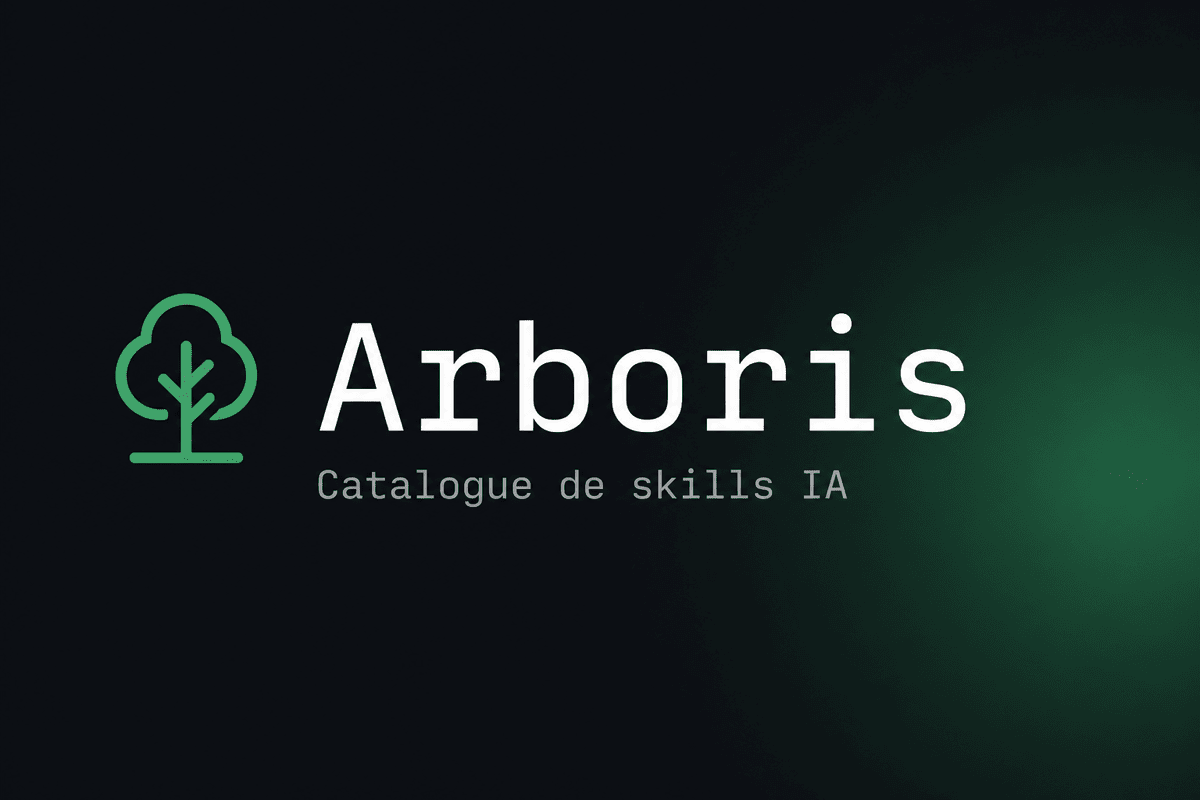
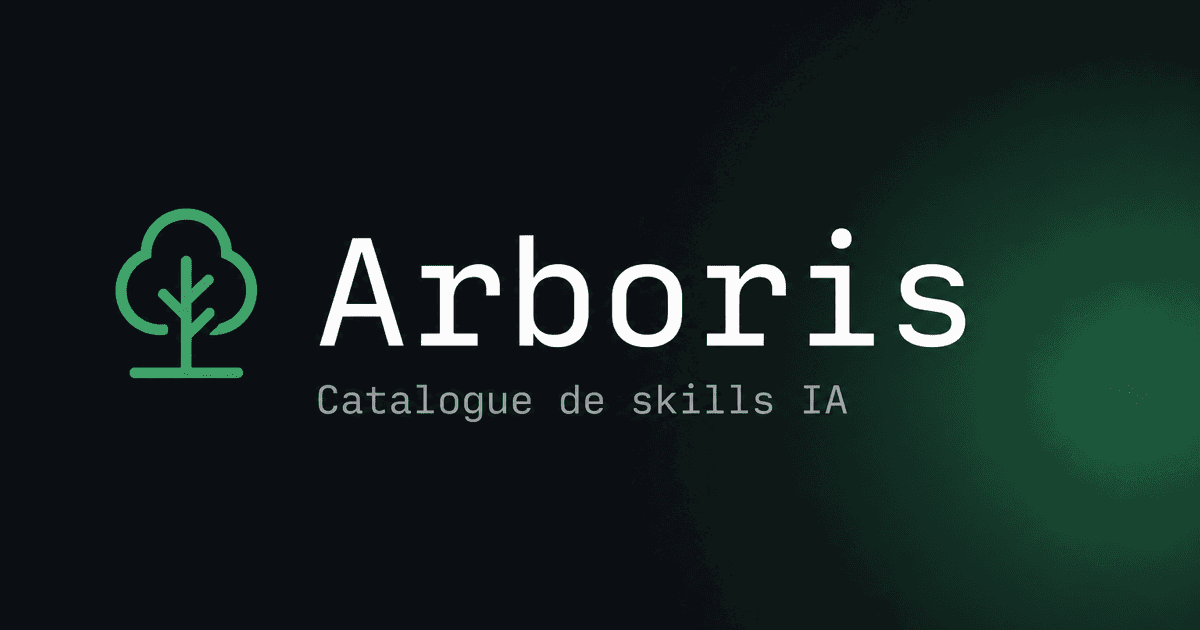
fix(a11y): contrastes, assets, cache HTML et en-têtes
Corrige F09/F13/F15/F20/F21/F25/F26 : tokens de contraste, logos éditeurs
WebP/SVG, logo JSON-LD raster, manifest + apple-touch, OG 1200×630,
Cache-Control HTML anonyme, CSP sans domaine mort, HSTS includeSubDomains,
charset unique, footer contact + CTA CLI (pas de GitHub, dépôt privé).

diff --git a/src/routes/skills.$id.tsx b/src/routes/skills.$id.tsx
@@ -145,7 +145,7 @@ function SkillDetailPage() {
             />
             {skill.score != null ? (
               <span className="inline-flex items-center gap-1 rounded-full border border-[var(--border)] bg-[var(--surface-2)] px-2.5 py-1 font-mono text-[12px] font-semibold tabular-nums text-[var(--text-1)]">
-                <Icon name="shield-check" bold size={12} className="text-[var(--accent)]" />
+                <Icon name="shield-check" bold size={12} className="text-[var(--accent-text)]" />
                 {skill.score}/100
               </span>
             ) : null}
@@ -203,7 +203,7 @@ function SkillDetailPage() {
       <div className="mt-[30px] overflow-hidden rounded-2xl border border-[var(--border)] bg-[var(--surface)] shadow-[var(--shadow-card)]">
         <div className="flex items-center justify-between gap-3.5 border-b border-[var(--border)] bg-[var(--surface-2)] px-[18px] py-[13px]">
           <div className="flex items-center gap-2.5 font-mono text-[11.5px] font-semibold uppercase tracking-[0.08em] text-[var(--text-3)]">
-            <Icon name="cursor-text" bold size={14} className="text-[var(--accent)]" />
+            <Icon name="cursor-text" bold size={14} className="text-[var(--accent-text)]" />
             {t.skill.promptTitle}
           </div>
           <Button variant="copy" size="sm" copied={copied} onClick={handleCopy}>
@@ -232,7 +232,7 @@ function SkillDetailPage() {
             <div className="flex flex-col gap-[11px]">
               {skill.does[lang].map((text) => (
                 <div key={text} className="flex items-start gap-[11px]">
-                  <Icon name="check-circle" bold size={18} className="mt-px flex-none text-[var(--accent)]" />
+                  <Icon name="check-circle" bold size={18} className="mt-px flex-none text-[var(--accent-text)]" />
                   <LangText text={text} as="span" className="text-[14.5px] text-[var(--text-1)]" />
                 </div>
               ))}
@@ -246,7 +246,7 @@ function SkillDetailPage() {
             <div className="flex flex-col gap-3.5">
               {t.skill.how.map((h, i) => (
                 <div key={h.t} className="flex items-start gap-3.5">
-                  <span className="grid h-7 w-7 flex-none place-items-center rounded-full bg-[var(--accent-soft)] font-mono text-[13px] font-semibold text-[var(--accent)]">
+                  <span className="grid h-7 w-7 flex-none place-items-center rounded-full bg-[var(--accent-soft)] font-mono text-[13px] font-semibold text-[var(--accent-text)]">
                     {i + 1}
                   </span>
                   <div className="pt-0.5">
@@ -283,7 +283,7 @@ function SkillDetailPage() {
               <div className="text-[11px] font-semibold uppercase tracking-[0.06em] text-[var(--text-3)]">
                 {t.skill.securityTitle}
               </div>
-              <Icon name="shield-check" bold size={14} className="text-[var(--accent)]" />
+              <Icon name="shield-check" bold size={14} className="text-[var(--accent-text)]" />
             </div>
             {skill.score == null || !skill.securityReport ? (
               <div className="rounded-xl border border-dashed border-[var(--border-2)] bg-[var(--surface-2)] px-3.5 py-4 text-center">

diff --git a/src/routes/commands.$id.tsx b/src/routes/commands.$id.tsx
@@ -68,12 +68,12 @@ function CommandDetailPage() {
 
       <div className="flex flex-col gap-5 lg:flex-row lg:items-start lg:justify-between">
         <div className="flex min-w-0 flex-1 flex-wrap items-start gap-[22px]">
-          <div className="grid h-16 w-16 flex-none place-items-center rounded-2xl bg-[var(--accent-soft)] text-[var(--accent)]">
+          <div className="grid h-16 w-16 flex-none place-items-center rounded-2xl bg-[var(--accent-soft)] text-[var(--accent-text)]">
             <Icon name="terminal-window" bold size={32} />
           </div>
           <div className="min-w-[240px] flex-1">
             <div className="mb-2.5 flex flex-wrap items-center gap-2.5">
-              <span className="inline-flex items-center gap-1.5 rounded-full border border-[var(--accent-border)] bg-[var(--accent-soft)] px-[11px] py-1 text-[12px] font-semibold text-[var(--accent)]">
+              <span className="inline-flex items-center gap-1.5 rounded-full border border-[var(--accent-border)] bg-[var(--accent-soft)] px-[11px] py-1 text-[12px] font-semibold text-[var(--accent-text)]">
                 <Icon name="terminal" bold size={13} />
                 {t.commands.slash}
               </span>
@@ -100,7 +100,7 @@ function CommandDetailPage() {
                         params={{ id }}
                         className="inline-flex cursor-pointer items-center gap-1.5 rounded-md border border-[var(--border)] bg-[var(--surface)] px-2.5 py-1 font-mono text-[12.5px] text-[var(--text-1)] hover:border-[var(--border-2)] hover:bg-[var(--surface-hover)]"
                       >
-                        <Icon name="sparkle" size={12} className="text-[var(--accent)]" />
+                        <Icon name="sparkle" size={12} className="text-[var(--accent-text)]" />
                         {id}
                       </Link>
                     </li>
@@ -145,7 +145,7 @@ function CommandDetailPage() {
       <div className="mt-[30px] overflow-hidden rounded-2xl border border-[var(--border)] bg-[var(--surface)] shadow-[var(--shadow-card)]">
         <div className="flex items-center justify-between gap-3.5 border-b border-[var(--border)] bg-[var(--surface-2)] px-[18px] py-[13px]">
           <h2 className="m-0 flex items-center gap-2.5 font-mono text-[11.5px] font-semibold uppercase tracking-[0.08em] text-[var(--text-3)]">
-            <Icon name="cursor-text" bold size={14} className="text-[var(--accent)]" />
+            <Icon name="cursor-text" bold size={14} className="text-[var(--accent-text)]" />
             {t.commands.promptHeading(command.id)}
           </h2>
           <Button variant="copy" size="sm" copied={copied} onClick={handleCopy}>

diff --git a/src/lib/branding.test.ts b/src/lib/branding.test.ts
@@ -23,7 +23,7 @@ describe('publisher logos', () => {
     expect(hasPublisherLogo('Ollama')).toBe(true)
     expect(publisherLogoAsset('Ollama')).toBeUndefined()
     expect(hasPublisherLogo('Nous Research')).toBe(true)
-    expect(publisherLogoAsset('Nous Research')).toBe('/publishers/nous-research.png')
+    expect(publisherLogoAsset('Nous Research')).toBe('/publishers/nous-research.webp')
     expect(hasPublisherLogo('vinta')).toBe(true)
     expect(hasPublisherLogo('Context7')).toBe(true)
     expect(publisherLogoAsset('Context7')).toBe('/publishers/context7.svg')
@@ -32,10 +32,10 @@ describe('publisher logos', () => {
     expect(hasPublisherLogo('Arboris')).toBe(true)
     expect(publisherLogoAsset('Arboris')).toBe('/publishers/arboris.svg')
     expect(hasPublisherLogo('affaan-m')).toBe(true)
-    expect(publisherLogoAsset('affaan-m')).toBe('/publishers/affaan-m.png')
+    expect(publisherLogoAsset('affaan-m')).toBe('/publishers/affaan-m.webp')
     expect(hasPublisherLogo('Yunt')).toBe(true)
-    expect(publisherLogoAsset('Yunt')).toBe('/publishers/yunt.png')
-    expect(publisherLogoAsset('yunt')).toBe('/publishers/yunt.png')
+    expect(publisherLogoAsset('Yunt')).toBe('/publishers/yunt.svg')
+    expect(publisherLogoAsset('yunt')).toBe('/publishers/yunt.svg')
     expect(hasPublisherLogo('FastAPI')).toBe(true)
     // Logos monochromes rendus en path inline coloré (plus d'asset <img> noir).
     expect(publisherLogoAsset('FastAPI')).toBeUndefined()
@@ -50,7 +50,7 @@ describe('publisher logos', () => {
     expect(hasPublisherLogo('Alibaba')).toBe(true)
     expect(hasPublisherLogo('PyTorch')).toBe(true)
     expect(hasPublisherLogo('NextLevelBuilder')).toBe(true)
-    expect(publisherLogoAsset('NextLevelBuilder')).toBe('/publishers/nextlevelbuilder.png')
+    expect(publisherLogoAsset('NextLevelBuilder')).toBe('/publishers/nextlevelbuilder.webp')
     expect(hasPublisherLogo('nextlevelbuilder')).toBe(true)
     expect(hasPublisherLogo('Inconnu')).toBe(false)
   })

diff --git a/src/routes/commands.index.tsx b/src/routes/commands.index.tsx
@@ -44,7 +44,7 @@ function CommandsPage() {
     <main id="main-content" className="w-full">
       <PageShell as="div" className="pt-9 pb-[70px]">
         <div className="mb-8 max-w-[640px]">
-          <div className="mb-3 flex items-center gap-2.5 font-mono text-[11.5px] font-medium tracking-[0.02em] text-[var(--accent)]">
+          <div className="mb-3 flex items-center gap-2.5 font-mono text-[11.5px] font-medium tracking-[0.02em] text-[var(--accent-text)]">
             <Icon name="terminal-window" bold />
             <span>{t.commands.kicker}</span>
             <span className="text-[var(--text-3)]">·</span>
@@ -55,7 +55,7 @@ function CommandsPage() {
           </h1>
           <p className="max-w-[540px] text-[15px] text-[var(--text-2)]">{t.commands.subtitle}</p>
           <p className="mt-3 rounded-[10px] border border-[var(--border)] bg-[var(--surface-2)] px-3.5 py-2.5 text-[13px] text-[var(--text-2)]">
-            <Icon name="info" size={14} className="mr-1.5 inline text-[var(--accent)]" />
+            <Icon name="info" size={14} className="mr-1.5 inline text-[var(--accent-text)]" />
             {t.commands.usageBanner}
           </p>
         </div>
@@ -106,7 +106,7 @@ function CommandRow({ command }: { command: CommandSummary }) {
       className="flex cursor-pointer flex-col gap-2 border-b border-[var(--border)] px-4 py-4 transition-colors last:border-b-0 hover:bg-[var(--surface-hover)] sm:flex-row sm:items-center sm:gap-6 sm:px-[18px]"
     >
       <div className="flex min-w-0 flex-1 items-start gap-3">
-        <span className="grid h-[34px] w-[34px] flex-none place-items-center rounded-[9px] bg-[var(--accent-soft)] text-[var(--accent)]">
+        <span className="grid h-[34px] w-[34px] flex-none place-items-center rounded-[9px] bg-[var(--accent-soft)] text-[var(--accent-text)]">
           <Icon name="terminal-window" bold size={17} />
         </span>
         <span className="min-w-0">

diff --git a/src/routes/__root.tsx b/src/routes/__root.tsx
@@ -13,9 +13,6 @@ import { beforeSendMeasurement } from '#/lib/analytics-optout'
 import { rootFallbackMeta, notFoundSeo } from '#/lib/seo'
 import appCss from '#/styles.css?url'
 
-/** Theme anti-FOUC — inline (CSP `unsafe-inline`) pour éviter une requête render-blocking. */
-const THEME_INIT = `(function(){try{var t=localStorage.getItem('sp-theme');if(t!=='light'&&t!=='dark')t='dark';document.documentElement.setAttribute('data-theme',t);document.documentElement.style.colorScheme=t}catch(e){document.documentElement.setAttribute('data-theme','dark')}})();`
-
 const Analytics = lazy(() =>
   import('@vercel/analytics/react').then((m) => ({ default: m.Analytics })),
 )
@@ -31,6 +28,7 @@ export const Route = createRootRoute({
       meta: [
         { charSet: 'utf-8' },
         { name: 'viewport', content: 'width=device-width, initial-scale=1' },
+        { name: 'theme-color', content: '#197544' },
         ...seo.meta,
       ],
       links: [
@@ -38,6 +36,8 @@ export const Route = createRootRoute({
         { rel: 'stylesheet', href: appCss },
         { rel: 'icon', href: '/favicon.svg', type: 'image/svg+xml' },
         { rel: 'icon', href: '/favicon.ico', sizes: '48x48', type: 'image/x-icon' },
+        { rel: 'apple-touch-icon', href: '/apple-touch-icon.png', sizes: '180x180' },
+        { rel: 'manifest', href: '/manifest.webmanifest' },
         { rel: 'preload', href: '/phosphor-sprite.svg', as: 'fetch', crossOrigin: 'anonymous' },
         ...(seo.links ?? []),
       ],
@@ -52,8 +52,7 @@ function RootDocument({ children }: { children: ReactNode }) {
   return (
     <html lang="fr" data-theme="dark" suppressHydrationWarning>
       <head>
-        <meta charSet="utf-8" />
-        <script dangerouslySetInnerHTML={{ __html: THEME_INIT }} />
+        <script src="/arboris-theme-init.js" />
         <HeadContent />
       </head>
       <body>

diff --git a/src/lib/vercel-headers.test.ts b/src/lib/vercel-headers.test.ts
@@ -1,0 +1,40 @@
+import { readFileSync } from 'node:fs'
+import { dirname, join } from 'node:path'
+import { fileURLToPath } from 'node:url'
+import { describe, expect, it } from 'vitest'
+
+const vercel = JSON.parse(
+  readFileSync(join(dirname(fileURLToPath(import.meta.url)), '../../vercel.json'), 'utf-8'),
+) as {
+  headers: Array<{ source: string; headers: Array<{ key: string; value: string }> }>
+}
+
+function header(source: string, key: string): string | undefined {
+  const block = vercel.headers.find((entry) => entry.source === source)
+  return block?.headers.find((h) => h.key === key)?.value
+}
+
+describe('en-têtes Vercel (cache, CSP, HSTS)', () => {
+  it('cache le HTML anonyme des listes et fiches', () => {
+    const htmlCache = 'public, max-age=0, s-maxage=300, stale-while-revalidate=86400'
+    expect(header('/', 'Cache-Control')).toBe(htmlCache)
+    expect(header('/skills(.*)', 'Cache-Control')).toBe(htmlCache)
+    expect(header('/commands(.*)', 'Cache-Control')).toBe(htmlCache)
+    expect(header('/collections(.*)', 'Cache-Control')).toBe(htmlCache)
+    expect(header('/getting-started', 'Cache-Control')).toBe(htmlCache)
+  })
+
+  it('cache plus longtemps les pages légales', () => {
+    const legal = 'public, max-age=0, s-maxage=86400, stale-while-revalidate=86400'
+    expect(header('/mentions-legales', 'Cache-Control')).toBe(legal)
+    expect(header('/confidentialite', 'Cache-Control')).toBe(legal)
+  })
+
+  it('retire le domaine Analytics inutilisé et pose includeSubDomains', () => {
+    const csp = header('/(.*)', 'Content-Security-Policy')
+    expect(csp).toBeTruthy()
+    expect(csp).not.toContain('va.vercel-scripts.com')
+    expect(csp).toContain("script-src 'self' 'unsafe-inline'")
+    expect(header('/(.*)', 'Strict-Transport-Security')).toBe('max-age=63072000; includeSubDomains')
+  })
+})

diff --git a/src/routes/collections.$id.tsx b/src/routes/collections.$id.tsx
@@ -109,7 +109,7 @@ function CollectionDetailPage() {
                       params={{ id: cmd.id }}
                       className="flex cursor-pointer items-center gap-3 border-b border-[var(--border)] px-4 py-3 last:border-b-0 hover:bg-[var(--surface-hover)]"
                     >
-                      <Icon name="terminal-window" size={16} className="text-[var(--accent)]" />
+                      <Icon name="terminal-window" size={16} className="text-[var(--accent-text)]" />
                       <span className="min-w-0 flex-1">
                         <span className="block font-mono text-[13px] font-semibold">/{cmd.id}</span>
                         <span className="block truncate text-[12.5px] text-[var(--text-2)]">
@@ -135,7 +135,7 @@ function CollectionDetailPage() {
                       params={{ id: skill.id }}
                       className="flex cursor-pointer items-center gap-3 border-b border-[var(--border)] px-4 py-3 last:border-b-0 hover:bg-[var(--surface-hover)]"
                     >
-                      <Icon name={skill.icon} size={16} className="text-[var(--accent)]" />
+                      <Icon name={skill.icon} size={16} className="text-[var(--accent-text)]" />
                       <span className="min-w-0 flex-1">
                         <span className={`block text-[13px] font-semibold ${skillLabel(skill) === skill.id ? 'font-mono' : ''}`}>{skillLabel(skill)}</span>
                         <span className="block truncate text-[12.5px] text-[var(--text-2)]">

diff --git a/src/lib/seo.ts b/src/lib/seo.ts
@@ -1,5 +1,5 @@
 import { SECURITY_WARN_SCORE } from '#/lib/skillspector'
-import { absoluteUrl, pageTitle, SITE_DESCRIPTION, SITE_NAME, SITE_URL } from '#/lib/site'
+import { absoluteUrl, pageTitle, SITE_DESCRIPTION, SITE_NAME, SITE_TAGLINE, SITE_URL } from '#/lib/site'
 
 export type BreadcrumbItem = {
   name: string
@@ -247,7 +247,12 @@ export function siteJsonLd() {
         '@id': `${SITE_URL}/#organization`,
         name: SITE_NAME,
         url: `${SITE_URL}/`,
-        logo: absoluteUrl('/favicon.svg'),
+        logo: {
+          '@type': 'ImageObject',
+          url: absoluteUrl('/logo-512.png'),
+          width: 512,
+          height: 512,
+        },
       },
       {
         '@type': 'SoftwareApplication',
@@ -442,10 +447,14 @@ export function seoHead(input: SeoInput = {}) {
     { property: 'og:url', content: url },
     { property: 'og:locale', content: 'fr_FR' },
     { property: 'og:image', content: image },
+    { property: 'og:image:width', content: '1200' },
+    { property: 'og:image:height', content: '630' },
+    { property: 'og:image:alt', content: `${SITE_NAME} — ${SITE_TAGLINE}` },
     { name: 'twitter:card', content: 'summary_large_image' },
     { name: 'twitter:title', content: title },
     { name: 'twitter:description', content: description },
     { name: 'twitter:image', content: image },
+    { name: 'twitter:image:alt', content: `${SITE_NAME} — ${SITE_TAGLINE}` },
   ]
 
   if (input.noIndex) {

diff --git a/src/lib/seo.test.ts b/src/lib/seo.test.ts
@@ -189,6 +189,19 @@ describe('seoHead', () => {
     expect(head.meta.some((m) => m.property === 'og:locale' && m.content === 'fr_FR')).toBe(true)
   })
 
+  it('déclare og:image 1200×630 avec alt', () => {
+    const head = seoHead({ path: '/' })
+    expect(head.meta).toEqual(
+      expect.arrayContaining([
+        { property: 'og:image', content: `${SITE_URL}/og.png` },
+        { property: 'og:image:width', content: '1200' },
+        { property: 'og:image:height', content: '630' },
+        { property: 'og:image:alt', content: `${SITE_NAME} — Catalogue de skills IA` },
+        { name: 'twitter:image:alt', content: `${SITE_NAME} — Catalogue de skills IA` },
+      ]),
+    )
+  })
+
   it('ajoute prev/next et conserve la query dans le canonical', () => {
     const head = seoHead({
       path: '/skills?page=2',
@@ -258,6 +271,16 @@ describe('siteJsonLd', () => {
   it('déclare uniquement le français (pas de version EN)', () => {
     const website = siteJsonLd()['@graph'].find((node) => node['@type'] === 'WebSite')
     expect(website?.inLanguage).toBe('fr')
+  })
+
+  it('expose un logo raster ImageObject ≥ 112 px', () => {
+    const org = siteJsonLd()['@graph'].find((node) => node['@type'] === 'Organization')
+    expect(org?.logo).toEqual({
+      '@type': 'ImageObject',
+      url: `${SITE_URL}/logo-512.png`,
+      width: 512,
+      height: 512,
+    })
   })
 })
 

diff --git a/src/lib/i18n.tsx b/src/lib/i18n.tsx
@@ -52,6 +52,8 @@ const fr = {
     aboutBody:
       'Arboris regroupe des skills et slash commands prêts à coller dans Cursor, Claude, Codex ou Copilot. Chaque fiche explique le rôle du skill, les technos concernées et la compatibilité agents. Tu copies le Markdown, tu l’installes en local ou via la CLI, puis ton agent s’en sert dès que le contexte correspond. Le catalogue couvre backend, frontend, data, sécu, ops et workflows agents — sans compte obligatoire pour parcourir ou copier.',
     browseAll: 'Voir tous les skills',
+    contact: 'Contact',
+    installCli: 'Installer la CLI',
   },
   skills: {
     kicker: 'Catalogue de skills',
@@ -360,6 +362,8 @@ const en: typeof fr = {
     aboutBody:
       'Arboris gathers skills and slash commands ready to paste into Cursor, Claude, Codex, or Copilot. Each page explains what the skill does, which stacks it covers, and which agents it supports. Copy the Markdown, install locally or via the CLI, then let your agent use it when the context matches. The catalog spans backend, frontend, data, security, ops, and agent workflows — no account required to browse or copy.',
     browseAll: 'See all skills',
+    contact: 'Contact',
+    installCli: 'Install the CLI',
   },
   skills: {
     kicker: 'Skill catalog',

diff --git a/src/routes/index.tsx b/src/routes/index.tsx
@@ -200,7 +200,7 @@ function HomePage() {
             </span>
             <Link
               to="/skills"
-              className="inline-flex cursor-pointer items-center gap-1.5 font-mono text-[11px] font-semibold uppercase tracking-[0.06em] text-[var(--text-3)] transition-colors hover:text-[var(--accent)]"
+              className="inline-flex cursor-pointer items-center gap-1.5 font-mono text-[11px] font-semibold uppercase tracking-[0.06em] text-[var(--text-3)] transition-colors hover:text-[var(--accent-text)]"
             >
               {t.home.footerLink}
               <Icon name="arrow-right" size={12} />
@@ -258,7 +258,7 @@ function HomeTableRow({
           title={copied ? t.home.copied : t.home.copy}
           className={`grid h-6 w-6 shrink-0 cursor-pointer place-items-center rounded-md border text-[var(--text-3)] opacity-0 transition-all group-hover:opacity-100 ${
             copied
-              ? 'border-[var(--accent-border)] bg-[var(--accent-soft)] text-[var(--accent)] opacity-100'
+              ? 'border-[var(--accent-border)] bg-[var(--accent-soft)] text-[var(--accent-text)] opacity-100'
               : 'border-[var(--border)] hover:border-[var(--border-2)] hover:text-[var(--text-1)]'
           }`}
         >

diff --git a/src/routes/skills.index.tsx b/src/routes/skills.index.tsx
@@ -374,7 +374,7 @@ function SkillsPage() {
             <button
               type="button"
               onClick={clearAll}
-              className="flex cursor-pointer items-center gap-[7px] p-0.5 text-[13px] font-medium text-[var(--accent)]"
+              className="flex cursor-pointer items-center gap-[7px] p-0.5 text-[13px] font-medium text-[var(--accent-text)]"
             >
               <Icon name="arrow-counter-clockwise" size={14} />
               {t.skills.clear}
@@ -393,7 +393,7 @@ function SkillsPage() {
           {showPublisherInstall ? (
             <div className="mb-4 rounded-[14px] border border-[var(--border)] bg-[var(--surface)] p-4 shadow-[var(--shadow-card)]">
               <div className="mb-1 flex items-center gap-2 text-[13px] font-semibold text-[var(--text-1)]">
-                <Icon name="terminal-window" size={16} className="text-[var(--accent)]" />
+                <Icon name="terminal-window" size={16} className="text-[var(--accent-text)]" />
                 {t.skills.installAllTitle(publisher)}
               </div>
               <p className="mb-3 text-[12.5px] text-[var(--text-2)]">
